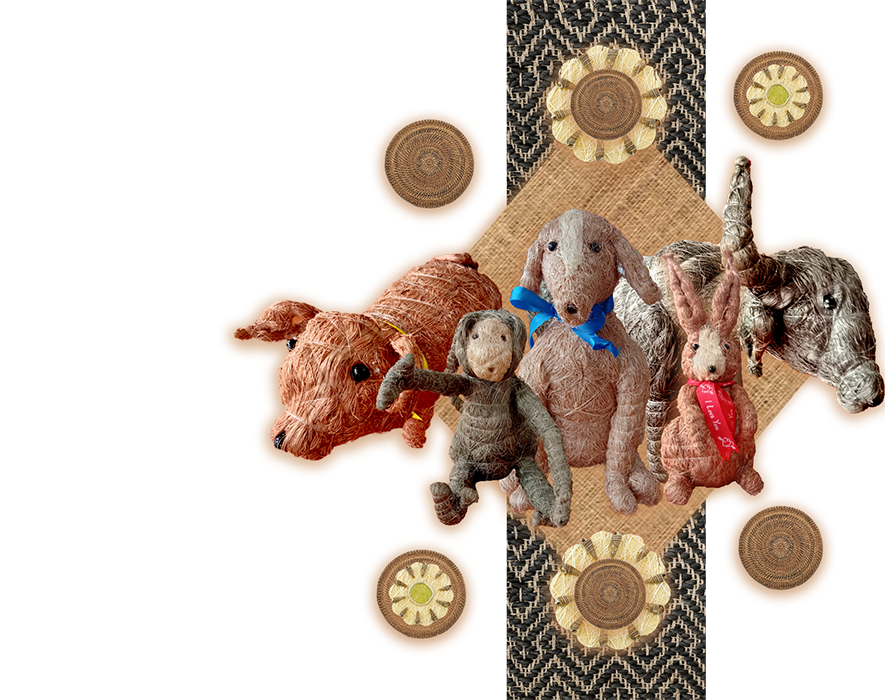
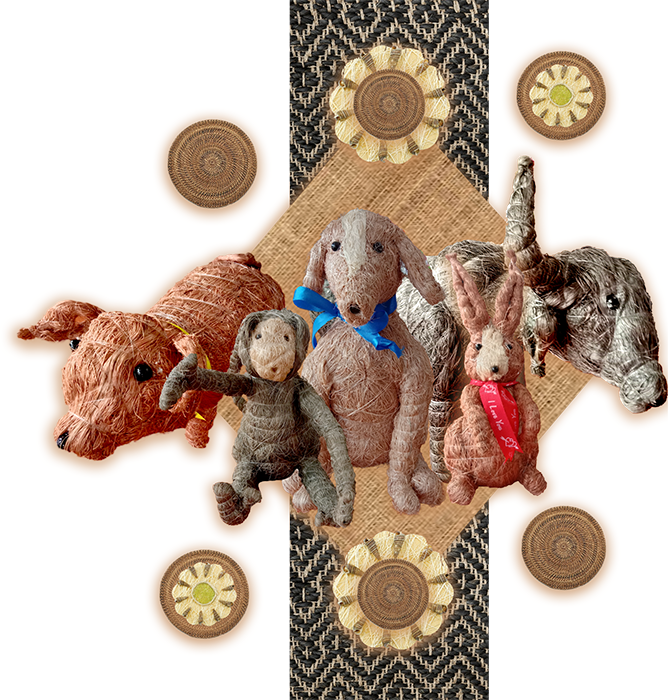
updates

diff --git a/assets/styles/scss/style.scss b/assets/styles/scss/style.scss
@@ -31,6 +31,8 @@ $navbar-h: 18vh;
     .nav {
         a {
             font-size: 0.9rem !important;
+            font-weight: 400 !important;
+
         }
     }
 
@@ -60,7 +62,7 @@ main {
                 content: ' ';
                 position: absolute;
                 width: 100%;
-                height: 1px;
+                height: 1.5px;
                 background: $orange;
                 bottom: 0;
                 left: 0;
@@ -115,9 +117,14 @@ main {
     .carousel-item {
         width: 100%;
         height: 75vh;
-        background-size:80%;
-        background-position: right;
-        background-repeat: no-repeat;
+        // background-size:80%;
+        // background-position: right;
+        // background-repeat: no-repeat;
+        img{
+            // width: 100%;
+            // height: 100%;
+            max-height: 100% !important;
+        }
     }
 
     .price {
@@ -286,10 +293,10 @@ main {
 }
 
 
-@media screen and (max-width:768px){
-    .carousel{
-        .carousel-item{
-            height: max-content !important;
-        }
-    }
-}
+// @media screen and (max-width:768px){
+//     .carousel{
+//         .carousel-item{
+//             height: max-content !important;
+//         }
+//     }
+// }

diff --git a/assets/styles/css/style.css b/assets/styles/css/style.css
@@ -20,6 +20,7 @@
 }
 .main-navbar .nav a {
   font-size: 0.9rem !important;
+  font-weight: 400 !important;
 }
 .main-navbar.scrolling {
   box-shadow: 0 1px 2px rgb(223, 223, 223);
@@ -43,7 +44,7 @@ main {
   content: " ";
   position: absolute;
   width: 100%;
-  height: 1px;
+  height: 1.5px;
   background: #F2994A;
   bottom: 0;
   left: 0;
@@ -77,9 +78,9 @@ main {
 .carousel .carousel-item {
   width: 100%;
   height: 75vh;
-  background-size: 80%;
-  background-position: right;
-  background-repeat: no-repeat;
+}
+.carousel .carousel-item img {
+  max-height: 100% !important;
 }
 .carousel .price {
   position: relative;
@@ -214,11 +215,4 @@ main {
   margin: 0 !important;
   padding: 0 !important;
   font-family: "Material Symbols Outlined" !important;
-}
-
-@media screen and (max-width: 768px) {
-  .carousel .carousel-item {
-    height: -moz-max-content !important;
-    height: max-content !important;
-  }
 }/*# sourceMappingURL=style.css.map */

diff --git a/index copy.php b/index copy.php
@@ -10,8 +10,8 @@ include_once './classes/ProductItem.php';
     <meta http-equiv="X-UA-Compatible" content="IE=edge">
     <meta name="viewport" content="width=device-width, initial-scale=1.0">
     <title>Abaca Handicraft</title>
-    <?php include './shared/head.php' ?>
-
+    <?php include './shared/head.php' ?>    
+  
 </head>
 
 <body class="bg-light">
@@ -20,7 +20,7 @@ include_once './classes/ProductItem.php';
 
     <main>
         <section class="hero-main">
-            <div id="hero-carousel" class="carousel slide"   data-aos-anchor-placement="top-bottom" data-aos-delay="300" data-aos-duration="800" data-aos="fade-up" data-bs-ride="carousel">
+            <div id="hero-carousel" class="carousel slide" data-bs-ride="carousel">
                 <?php
                 $carouselItems = [
                     new CarouselItem(title: "Abaca Dress", image: "assets/images/front-slider/dress.png"),
@@ -50,11 +50,11 @@ include_once './classes/ProductItem.php';
                     <?php
                     foreach ($carouselItems as $key => $carouselItem) {
                     ?>
-                        <div class="carousel-item <?php echo $key == 0 ? 'active' : '' ?>">
+                        <div class="carousel-item <?php echo $key == 0 ? 'active' : '' ?>" style="background-image: url(<?php echo $carouselItem->image ?>)">
                             <div class="container h-100">
                                 <div class="row h-100 gx-0 align-items-center">
-                                    <div class="col-md-6 ">
-                                        <div class="">
+                                    <div class="col-md-6 col-6">
+                                        <div class=" py-4">
                                             <h2><?php echo $carouselItem->title ?></h2>
                                             <div class="line mt-3 mb-4"></div>
                                             <p><?php echo $carouselItem->description ?></p>
@@ -62,9 +62,9 @@ include_once './classes/ProductItem.php';
                                             <a href="<?php echo $carouselItem->url ?>" class="btn btn-orange rounded-0 text-light mt-3">Browse</a>
                                         </div>
                                     </div>
-                                    <div class="col-md text-end h-100">
+                                    <!-- <div class="col-md">
                                         <img src="<?php echo $carouselItem->image ?>" class="img-fluid" alt="<?php echo $carouselItem->title ?>">
-                                    </div>
+                                    </div> -->
                                 </div>
                             </div>
                         </div>
@@ -77,7 +77,7 @@ include_once './classes/ProductItem.php';
         </section>
         <section>
             <div class="container py-5">
-                <div class="text-center" data-aos-duration="800" data-aos="fade-up">
+                <div class="text-center">
                     <p class=" text-uppercase">Hey There</p>
                     <p class=" fs-4  text-orange">Thank you for supporting local products!</p>
                     <p class=" mb-5 col-md-4 mx-auto text-uppercase text-secondary">This Shop proudly features products from the island of catanduanes</p>
@@ -88,7 +88,7 @@ include_once './classes/ProductItem.php';
         </section>
         <section>
             <div class="container py-5">
-                <div class="text-center mb-3" data-aos-duration="500" data-aos="zoom-in">
+                <div class="text-center mb-3">
                     <h5>FEATURED PRODUCTS</h5>
                 </div>
                 <br>
@@ -109,7 +109,7 @@ include_once './classes/ProductItem.php';
 
                         foreach ($featured_products as $key => $product) {
                         ?>
-                            <div class="col-md-3 "  data-aos-duration="800" data-aos="<?php echo ($key+1) % 4 == 0? 'flip-left':'flip-right'?>">
+                            <div class="col-md-3 ">
                                 <div class="product-card" id="featured-product-card-<?php echo $key ?>">
                                     <div class="inner">
                                         <div class="image-container">
@@ -143,8 +143,8 @@ include_once './classes/ProductItem.php';
                     <div class="row align-items-end gy-3">
                         <div class="col-md">
                             <div class="row justify-content-start">
-                                <div class="col-md-9" >
-                                    <img src="./assets/images/pic.jpg" alt=""  data-aos-duration="500" data-aos="zoom-in" class="img-fluid">
+                                <div class="col-md-9">
+                                    <img src="./assets/images/products/331014170_852045132564953_568379067745869145_n.jpg" alt="" class="img-fluid">
                                 </div>
                             </div>
                         </div>
@@ -184,7 +184,7 @@ include_once './classes/ProductItem.php';
                             foreach ($categories as $key => $category) {
                             ?>
                                 <li class="nav-item">
-                                    <a href="#" class="nav-link link-<?php echo $key == 0 ? 'orange' : 'dark' ?>"><?php echo $category ?></a>
+                                    <a href="#" class="nav-link link-<?php echo $key == 0?'orange':'dark' ?>"><?php echo $category ?></a>
                                 </li>
                             <?php
                             }
@@ -259,8 +259,7 @@ include_once './classes/ProductItem.php';
                         <div class="col-md">
                             <div class="row justify-content-center">
                                 <div class="col-md-9">
-                                    <img src="./assets/images/pic.jpg" alt="" class="img-fluid">
-
+                                    <img src="./assets/images/products/331014170_852045132564953_568379067745869145_n.jpg" alt="" class="img-fluid">
                                 </div>
                             </div>
                         </div>
@@ -289,6 +288,7 @@ include_once './classes/ProductItem.php';
             let slideWidth = firstSlide.width();
             console.log('slidew: ', slideWidth)
         }
+
     </script>
 </body>
 

diff --git a/shop.php b/shop.php
@@ -16,14 +16,17 @@ include './classes/ProductItem.php';
     <?php $active_page = "shop" ?>
     <?php include './shared/top_header.php' ?>
 
-    <?php 
-        // get active category
-        $category = isset($_GET['category'])? $_GET['category']:"All Products";
+    <?php
+    // get active category
+    $category = isset($_GET['category']) ? $_GET['category'] : "All Products";
 
     ?>
     <main>
         <section class="py-5">
             <div class="container">
+                <div class="text-center">
+                    <p class="fs-4 mb-4">Our Products</p>
+                </div>
                 <div class="row gy-5">
                     <div class="col-md-3">
                         <ul class="nav flex-column ">
@@ -42,8 +45,8 @@ include './classes/ProductItem.php';
 
                             foreach ($categories as $key => $c) {
                             ?>
-                                <li class="nav-item " >
-                                    <a href="shop.php?category=<?php echo $c ?>" class="nav-link <?php echo $category == $c ? 'link-orange':'link-dark' ?>"><?php echo $c ?></a>
+                                <li class="nav-item ">
+                                    <a href="shop.php?category=<?php echo $c ?>" class="nav-link <?php echo $category == $c ? 'link-orange' : 'link-dark' ?>"><?php echo $c ?></a>
                                 </li>
                             <?php
                             }

diff --git a/shared/top_header.php b/shared/top_header.php
@@ -1,6 +1,6 @@
-<header class="navbar scrolling navbar-light bg-light navbar-expand-lg main-navbar fixed-top">
+<header class="navbar navbar-light bg-light navbar-expand-lg main-navbar fixed-top animate__animated animate__slideInDown">
     <div class="container py-3">
-        <div class="row align-items-center w-100">
+        <div class="row align-items-start w-100">
             <div class="col">
                 <!-- <p class="my-1 align-items-center d-none d-lg-flex  ">
                     <i class="material-symbols-outlined filled me-1 text-orange">
@@ -29,7 +29,7 @@
                     foreach ($nav_links as $key => $nav_link) {
                     ?>
                         <li class="nav-item <?php echo $active_page == $nav_link->key ? 'active':'' ?>">
-                            <a href="<?php echo $nav_link->url ?>" class="nav-link link-secondary text-uppercase fw-bold"><?php echo $nav_link->text ?></a>
+                            <a href="<?php echo $nav_link->url ?>" class="nav-link link-dark text-uppercase fw-bold"><?php echo $nav_link->text ?></a>
                         </li>
                     <?php
                     }

diff --git a/shared/head.php b/shared/head.php
@@ -1,3 +1,4 @@
+<link rel="shortcut icon" href="./assets/images/leaf.png" type="image/x-icon">
 <link rel="preconnect" href="https://fonts.googleapis.com">
 <link rel="preconnect" href="https://fonts.gstatic.com" crossorigin>
 <link href="https://fonts.googleapis.com/css2?family=Cantarell&family=Raleway:wght@200;300;400&display=swap" rel="stylesheet">
@@ -11,3 +12,4 @@
 <link href="https://fonts.googleapis.com/css2?family=Cantarell&family=Karla:wght@300&family=Raleway:wght@200;300;400&display=swap" rel="stylesheet">
 <link rel="stylesheet" href="https://cdnjs.cloudflare.com/ajax/libs/animate.css/4.1.1/animate.min.css"  />
 <link href='https://unpkg.com/boxicons@2.1.4/css/boxicons.min.css' rel='stylesheet'>
+<link href="https://unpkg.com/aos@2.3.1/dist/aos.css" rel="stylesheet">

diff --git a/view-product.php b/view-product.php
@@ -17,7 +17,7 @@
             <div class="container">
                 <div class="row align-items-center">
                     <div class="col-md-4">
-                        <img src="./assets/images/products/bag2.png" class="img-fluid img-thumbnail bg-light" alt="">
+                        <img src="./assets/images/products/bag2.png" class="img-fluid img-thumbnail shadow-sm bg-light" alt="">
                     </div>
                     <div class="col-md">
                         <p></p>

diff --git a/shared/scripts.php b/shared/scripts.php
@@ -1,8 +1,10 @@
 <script src="https://cdn.jsdelivr.net/npm/jquery@3.6.3/dist/jquery.min.js"></script>
 <script src="./node_modules/bootstrap/dist/js/bootstrap.min.js"></script>
-
+<script src="https://unpkg.com/aos@2.3.1/dist/aos.js"></script>
 <script>
     $(function() {
+        AOS.init();
+        
         $("#offcanvas-cart").on('show.bs.offcanvas', function(e) {
             let productCard = $($(e.relatedTarget).data('target'));
             let offcanvas = $(this);
